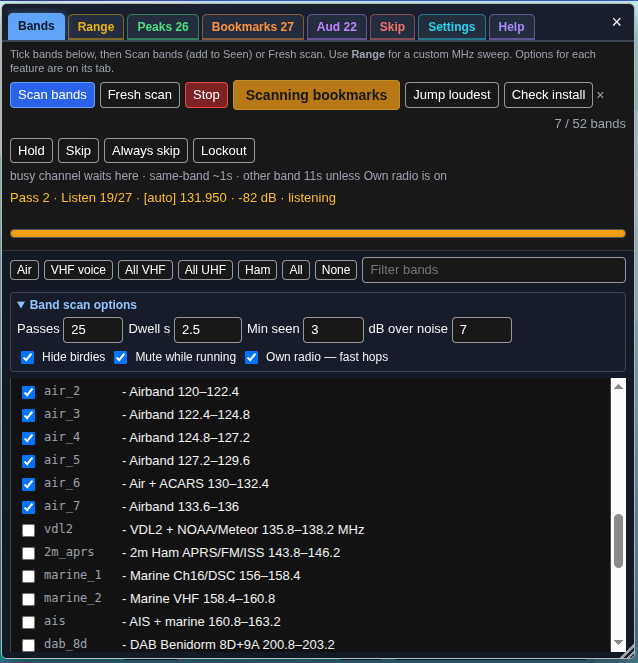
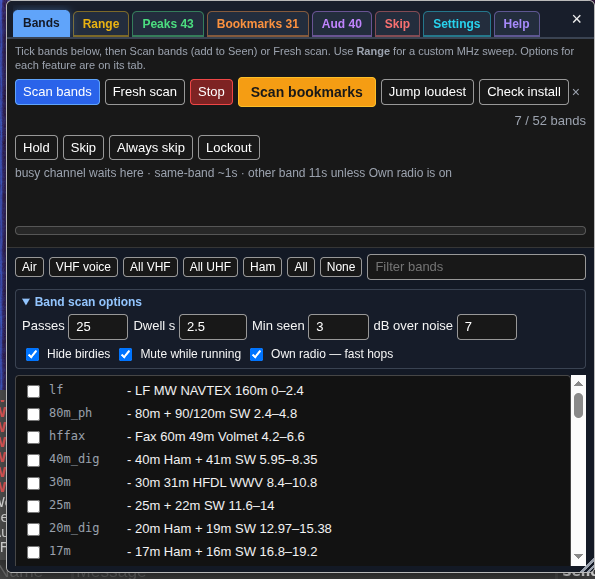
docs: refresh Bands screenshot; drop other tab images

Changed region(s): [[0.0, 0.0, 1.0, 1.0]]

diff --git a/README.md b/README.md
@@ -12,41 +12,6 @@ real waterfall peaks, ranks the busiest, and can bookmark them in **this browser
 
 <p><em>Orange <strong>SV</strong> on the right-hand receiver panel opens the survey.</em></p>
 
-### All tabs
-
-<p>
-  <strong>Bands</strong><br>
-  <img src="screenshots/bands.png" alt="Bands tab" width="640">
-</p>
-<p>
-  <strong>Range</strong><br>
-  <img src="screenshots/range.png" alt="Range tab" width="640">
-</p>
-<p>
-  <strong>Peaks</strong><br>
-  <img src="screenshots/peaks.png" alt="Peaks tab" width="640">
-</p>
-<p>
-  <strong>Bookmarks</strong><br>
-  <img src="screenshots/bookmarks.png" alt="Bookmarks tab" width="640">
-</p>
-<p>
-  <strong>Audio</strong><br>
-  <img src="screenshots/audio.png" alt="Audio tab" width="640">
-</p>
-<p>
-  <strong>Skip</strong><br>
-  <img src="screenshots/skip.png" alt="Skip tab" width="640">
-</p>
-<p>
-  <strong>Settings</strong><br>
-  <img src="screenshots/settings.png" alt="Settings tab" width="640">
-</p>
-<p>
-  <strong>Help</strong><br>
-  <img src="screenshots/help.png" alt="Help tab" width="640">
-</p>
-
 **Does not need** `freq_scanner`, `scan_hunt`, `uikit`, `utils`, or `notify`. Those are
 optional extras if you already load them.
 
